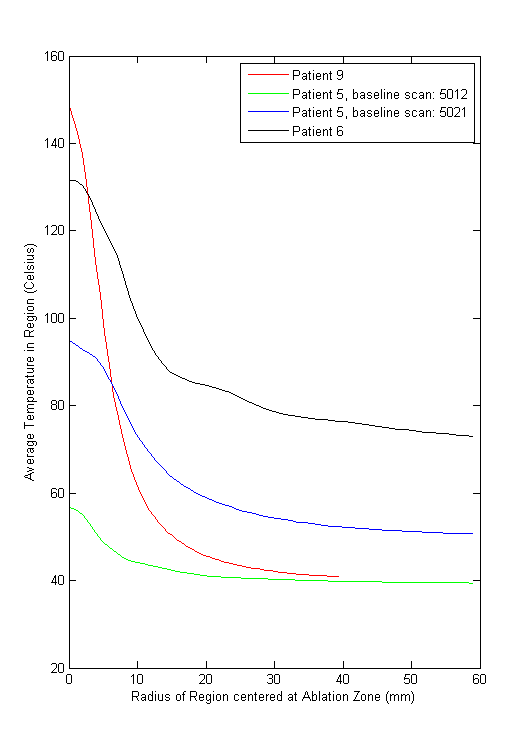
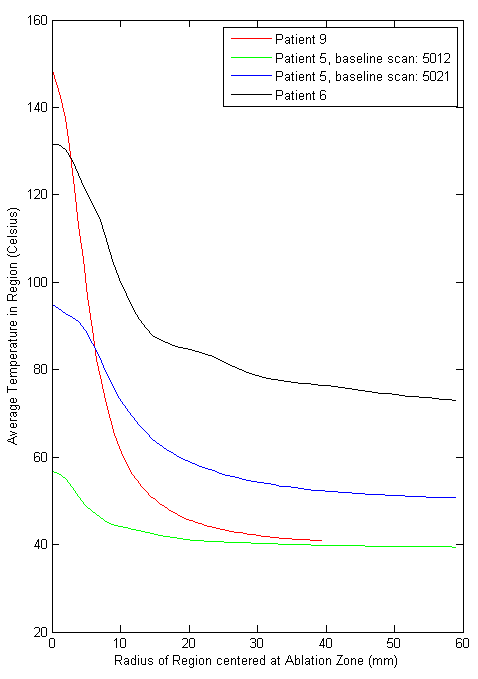
more work done

diff --git a/spiePaper/spieManuscript.tex b/spiePaper/spieManuscript.tex
@@ -59,7 +59,7 @@
 
 %%%%%%%%%%%%%%%%%%%%%%%%%%%%%%%%%%%%%%%%%%%%%%%%%%%%%%%%%%%%% 
 \begin{abstract}
-Monitoring temperature during a cone-beam CT (CBCT) guided ablation procedure is important for prevention of over-treatment and under-treatment. In order to accomplish ideal temperature monitoring, a thermometry map must be generated.  Li et al explored this possibility using CBCT scans of a pig shoulder undergoing ablation. We are extending this work by using CBCT scans of real patients. Because we have real patients, we register the scans using NiftyReg **INSERT REF** before comparing them. Due to the noise in the image and remaining registration errors, we also employ a more robust change metric than simple image difference. 
+Monitoring temperature during a cone-beam CT (CBCT) guided ablation procedure is important for prevention of over-treatment and under-treatment. In order to accomplish ideal temperature monitoring, a thermometry map must be generated.  Li et al explored this possibility using CBCT scans of a pig shoulder undergoing ablation. We are extending this work by using CBCT scans of real patients. Because we have real patients, we register the scans using NiftyReg **INSERT REF** before comparing them. Due to the noise in the image and remaining registration errors, we also employ a more robust change metric than simple image difference. \cite{Lamport94} 
 \end{abstract}
 
 %>>>> Include a list of keywords after the abstract 
@@ -131,7 +131,7 @@ Here was the procedure done to get the ROIs:
 \item Run connected component analysis
 \item Isolate the connected components with the most points
 \item For each component:
-\item Run PCA and find most signficant vector
+\item Run PCA and find most significant vector
 \item Find each points coordinate in the new vector space
 \item The points with the greatest and least value will be the endpoints
 \end{enumerate}
@@ -150,42 +150,57 @@ Here was the procedure done to get the ROIs:
 
 \subsection{Change Detection}
 
-These images have a low signal to noise ratio as well as beam hardening artifacts. Because of this, a simple difference image is quite noisy. We decided to use an averaging filter to obtain the Region of Interest (ROI) that contained the ablation zone. We then calculate a Sliding Window RMSE value for each pixel in the ROI. 
+These images have a low signal to noise ratio as well as beam hardening artifacts. Li et al used the Wronskian Change Detector to try to account for this. While this change detector works well for classifying which pixels changed, it is not ideally suited for regression where the amount of change is important. The Wronskian detector uses a window around a pixel. We decided to use the window method also but with a different change metric. 
 
-The panel to the left shows different ways of comparing the ROI, including:
-Raw Subtraction (top)
-Average Filtered Image difference (middle)
-Sliding Window method difference (bottom)
+We ended up using two metrics. The first one is more efficient but less robust. The second more is less efficient to compute but much more robust. The first one was used to get an idea of what the thermal map will look like. The second one was used to actually generate the thermal map. 
 
-Raw Subtraction
-Let A be baseline image 
-Let B be comparison image 
-Each pixel (i,j) in result image is as follows: A(i,j)-B(i,j)
+There are various image filters that are meant to reduce noise. We decided to incorporate an averaging filter. We apply the filter to both images and then find the difference of the filtered image. This is equivalent to taking a window around a pixel and finding the mean difference in the window. This was the first method. 
 
-Average Filtered Image difference
-Let C be baseline image after applying an averaging filter
-Let D be comparison image after applying an averaging filter
-Each pixel (i,j) in result image is as follows: C(i,j)-D(i,j)
+While the first method reduces the effects of noise, there are still beam hardening artifacts and registration errors that are not accounted for. We thus incorporated a second method where we took the windows and minimized the RMSE over every offset of the windows. 
 
-Sliding Window RMSE Method
-For each pixel (i,j) in result image: 
-Let U be neighborhood around (i,j) in the baseline image
-Let V be neighborhood around (i,j) in the comparison image
-Calculate the following:
+The second method is equivalent to treating the baseline and comparison windows as signals and finding the ideal spatial delay between them **INSERT REF**. 
+
+Here is the second method procedure:
+For each pixel $(i,j)$ in the result image:
+\begin{enumerate}
+\item Let $w$ be half-width of the window around the pixel. 
+\item Let $n=2w+1$. This means the window is size $n$ by $n$. 
+\item Let $U$ be window around $(i,j)$ in baseline image
+\item Let $U'$ be $U$ repeated in the following way:
 \[
-\min_{r,c} \sum_{l=0}^{m-1} \sum_{k=0}^{n-1} {(U_{k+r,l+c}-V_{k,l})^2}
+\forall(k,l,i \in Z)\, \, \, U'_{k+i \cdot n,l+i \cdot n} = U_{k,l}
 \]
-where it holds that
+\item Let $V$ be window around $(i,j)$ in the comparison image
+\item Calculate the following:
 \[
-U_{k+n,l+m} = U_{k,l}
+\min_{r,c} \sum_{l=0}^{n-1} \sum_{k=0}^{n-1} {(U'_{k+r,l+c}-V_{k,l})^2}
 \]
 
+\end{enumerate}
+
+\begin{figure} 
+\centering 
+\includegraphics[width=\textwidth]{changeDetectionPanel2.png} 
+\caption{Results of different change metrics in the ROI. Raw subtraction (left), Filtered Difference (center), and Sliding Window RMSE (right)} 
+\end{figure}
 
 \subsection{Regression}
 
+After generating the sliding window image, we find the coordinates where the measured temperature zones are located. We correlate the sliding window values with the measured temperature at those zones using linear regression. We then take the regression equation found and compute its output across the sliding window image. This gives us the thermal map.  
+
 We then took the sliding window RMSE value and calibrated it using the measured temperature change at the needle through a regression model. We used the model to calculate a thermal map in the ROI. This thermal map was used to obtain an approximate mean temperature around the needles and thermocouples.
 
-**INSERT POSTER IMAGES**
+\begin{figure} 
+\centering 
+\includegraphics[width=4in]{slidingDiffRegression.png} 
+\caption{Regression Curve Calculated} 
+\end{figure}
+
+\begin{figure} 
+\centering 
+\includegraphics[width=4in]{slidingDiffThermalMap.png} 
+\caption{Thermal Map generated from Regression curve} 
+\end{figure}
 
 
 \section{Results}
@@ -200,14 +215,22 @@ We decided to take the thermal maps generated from regression and see the averag
 
 For the ablation zones, we made a graph of radius of region versus average temperature in that region in the thermal map. This graph can one day be used to approximate the radius of an ablation zone. Here it is for the various patients in our study. 
 
-**INSERT GRAPH OF AREA VS AVERAGE TEMPERATURE**
+\begin{figure} 
+\centering 
+\includegraphics[width=3in]{meanTempVsRadiusFull.png} 
+\caption{Shows the graph of radius vs mean temperature} 
+\end{figure}
 
 
 \subsection{3D Visualization of Ablation Zone}
 
 By taking the 3D Thermal Map, thresholding the values, and then using a surface generation algorithm **REFERENCE ITK-SNAP HERE**, we were able to create a 3D diagram of the ablation zone. We overlayed the 3D diagram of the needle and we were able to obtain a convincing visual. 
 
-**SHOW VISUALS OF NEEDLE AND ABLATION ZONES**
+\begin{figure} 
+\centering 
+\includegraphics[width=3in]{NeedleAndAblationZone.png} 
+\caption{Shows a 3D Visualization of the Needle and Ablation Zone} 
+\end{figure}
 
 \section{Conclusions and Future Work}
 
@@ -219,7 +242,7 @@ The next step is to automate ROI selection using the needle properties. Addition
 
 
 
-%\bibliography{report}   %>>>> bibliography data in report.bib
-%\bibliographystyle{spiebib}   %>>>> makes bibtex use spiebib.bst
+\bibliography{report}   %>>>> bibliography data in report.bib
+\bibliographystyle{spiebib}   %>>>> makes bibtex use spiebib.bst
 
 \end{document} 

diff --git a/matlab/generatePosterPictures.m b/matlab/generatePosterPictures.m
@@ -74,7 +74,7 @@ rectangle('Position',[rectX rectY sizeX sizeY])
 rectangle('Position',[rectX2 rectY sizeX sizeY])
 %rectangle('Position',[rectX3 rectY sizeX sizeY])
 axis off;
-
+%%
 %must run the following:
 %load('script7_13_pt9Values.mat');
 slidWindowSliceNum = (sliceNum-zInds(1))+1;
@@ -90,7 +90,7 @@ convROI = putin01scale(diffImageROI(5:117,5:167));
 slidROI = putin01scale(diffFrameImage);
 
 figure
-imagesc([rawROI;convROI;slidROI]);
+imagesc([rawROI convROI slidROI]);
 axis off
 
 %{
